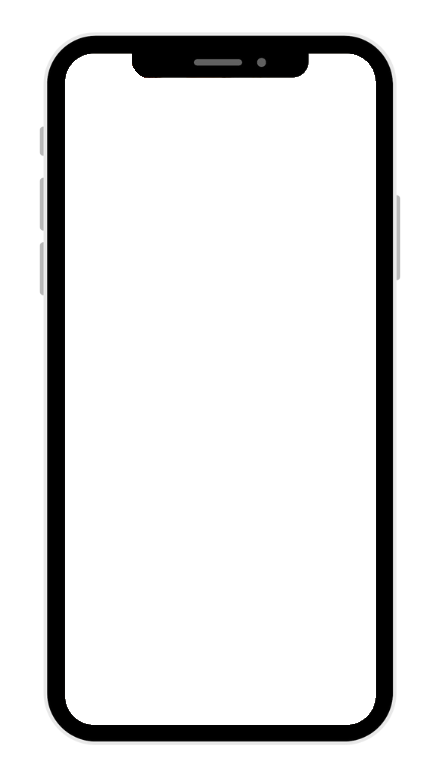
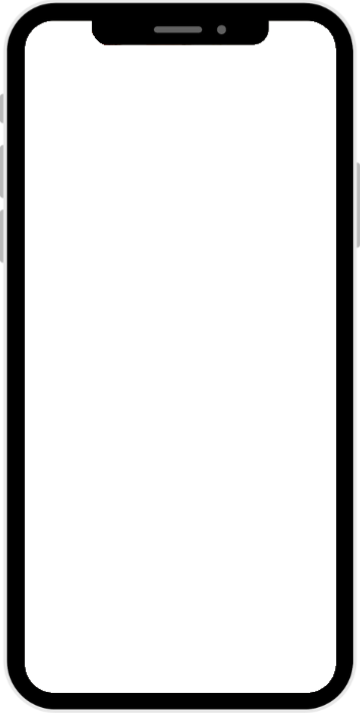
Agregado mockup movil a slider de proyectp

Changed region(s): [[0.0, 0.0, 1.0, 1.0]]

diff --git a/src/components/ui/iphone_mockup/IphoneMockup.jsx b/src/components/ui/iphone_mockup/IphoneMockup.jsx
@@ -1,12 +1,31 @@
-import React from 'react';
-import iphone from '../../../assets/mockups/iphone.png';
+import React, { useEffect, useRef } from 'react';
+import { iphone } from '../../../assets/mockups';
+import { gsap } from 'gsap';
 import './iphone-mockup.css';
 
-const IphoneMockup = () => {
+const IphoneMockup = ({ animate, scrollingImg, yImg}) => {
+    const imgRef = useRef(null);
+
+    useEffect(() => {
+        gsap.set(imgRef.current, { y: 0 });
+        if (animate) {
+            gsap.to(imgRef.current, {
+                y: -yImg,
+                duration: 8,
+                ease: 'none',
+                repeat: -1,
+                yoyo: true,
+                delay: 1
+            });
+        }
+    }, [animate, yImg]);
     return (
         <div className='iphone-mockup'>
             <div className='iphone-mockup-img'>
                 <img src={iphone} alt="" />
+                <div className='iphone-inside-img' ref={imgRef}>
+                    <img src={scrollingImg} alt="" />
+                </div>
             </div>
         </div>
     )

diff --git a/src/components/containers/project_slide/ProjectSlide.jsx b/src/components/containers/project_slide/ProjectSlide.jsx
@@ -2,18 +2,18 @@ import React from 'react';
 import { MacbookProMockup, IphoneMockup } from '../../ui';
 import './project-slide.css';
 
-const ProjectSlide = ({animate, imagePc, imagePcY}) => {
+const ProjectSlide = ({animate, imagePc, imagePcY, imagePhone, imagePhoneY}) => {
     return (
         <div className='project-slide'>
             <div className='project-slide-title'>
                 <div>Proyecto</div>
             </div>
             <div className='mockup'>
-                <div className='mockup-macbookpro'>
+                <div>
                     <MacbookProMockup animate={animate} scrollingImg={imagePc} yImg={imagePcY} />
                 </div>
                 <div>
-                    <IphoneMockup />
+                    <IphoneMockup animate={animate} scrollingImg={imagePhone} yImg={imagePhoneY}/>
                 </div>
             </div>
         </div>

diff --git a/src/components/containers/portfolio_slider/PortfolioSlider.jsx b/src/components/containers/portfolio_slider/PortfolioSlider.jsx
@@ -1,6 +1,6 @@
 import React, { useRef, useState} from 'react';
 import { gsap } from 'gsap';
-import { flowguardPc } from '../../../assets/projects-img';
+import { flowguardPc, flowguardPhone } from '../../../assets/projects-img';
 import ProjectSlide from '../project_slide/ProjectSlide';
 import './portfolio-slider.css';
 
@@ -37,6 +37,8 @@ const PortfolioSlider = ({ animate }) => {
                         animate={animate && currentIndex === 0}
                         imagePc={flowguardPc}
                         imagePcY={1200}
+                        imagePhone={flowguardPhone}
+                        imagePhoneY={1200}
                     />
                 </div>
                 <div className='horizontal-slide' ref={(el) => (sectionsRef.current[1] = el)}>

diff --git a/src/components/ui/iphone_mockup/iphone-mockup.css b/src/components/ui/iphone_mockup/iphone-mockup.css
@@ -1,16 +1,40 @@
 .iphone-mockup {
+    position: relative;
     width: 150px;
+    height: 100%;
     display: flex;
     justify-content: center;
     align-items: center;
+    overflow: hidden;
+    border-radius: 20px;
+    box-shadow: 0 0 10px rgba(0, 0, 0, 1);
 }
 
 .iphone-mockup-img {
+    position: relative;
     width: 150px;
-    height: auto;
+    height: 100%;
 }
 
 .iphone-mockup img {
     width: 100%;
     height: 100%;
+    display: block;
+}
+
+.iphone-inside-img {
+    z-index: -1;
+    position: absolute;
+    width: 130px;
+    top: 20px;
+    left: 11px;
+    height: auto;
+    overflow: hidden;
+}
+
+.iphone-inside-img img {
+    padding-bottom: 10rem;
+    width: 100%;
+    height: auto;
+    position: relative;
 }

diff --git a/src/components/ui/macbookpro_mockup/MacbookProMockup.jsx b/src/components/ui/macbookpro_mockup/MacbookProMockup.jsx
@@ -24,7 +24,7 @@ const MacbookProMockup = ({ animate, scrollingImg, yImg }) => {
         <div className='macbookpro-mockup'>
             <div className='macbookpro-mockup-img'>
                 <img src={macbookpro} alt="" />
-                <div className='inside-img' ref={imgRef}>
+                <div className='macbook-inside-img' ref={imgRef}>
                     <img src={scrollingImg} alt="" />
                 </div>
             </div>

diff --git a/src/components/ui/macbookpro_mockup/macbookpro-mockup.css b/src/components/ui/macbookpro_mockup/macbookpro-mockup.css
@@ -20,7 +20,7 @@
     display: block;
 }
 
-.inside-img {
+.macbook-inside-img {
     z-index: -1;
     position: absolute;
     width: 602px;
@@ -30,7 +30,7 @@
     overflow: hidden;
 }
 
-.inside-img img {
+.macbook-inside-img img {
     padding-bottom: 10rem;
     width: 100%;
     height: auto;

diff --git a/src/assets/projects-img/index.js b/src/assets/projects-img/index.js
@@ -1,1 +1,2 @@
 export { default as flowguardPc } from './flowguard/flowguard-pc.png';
+export { default as flowguardPhone } from './flowguard/flowguard-mobile.png';
